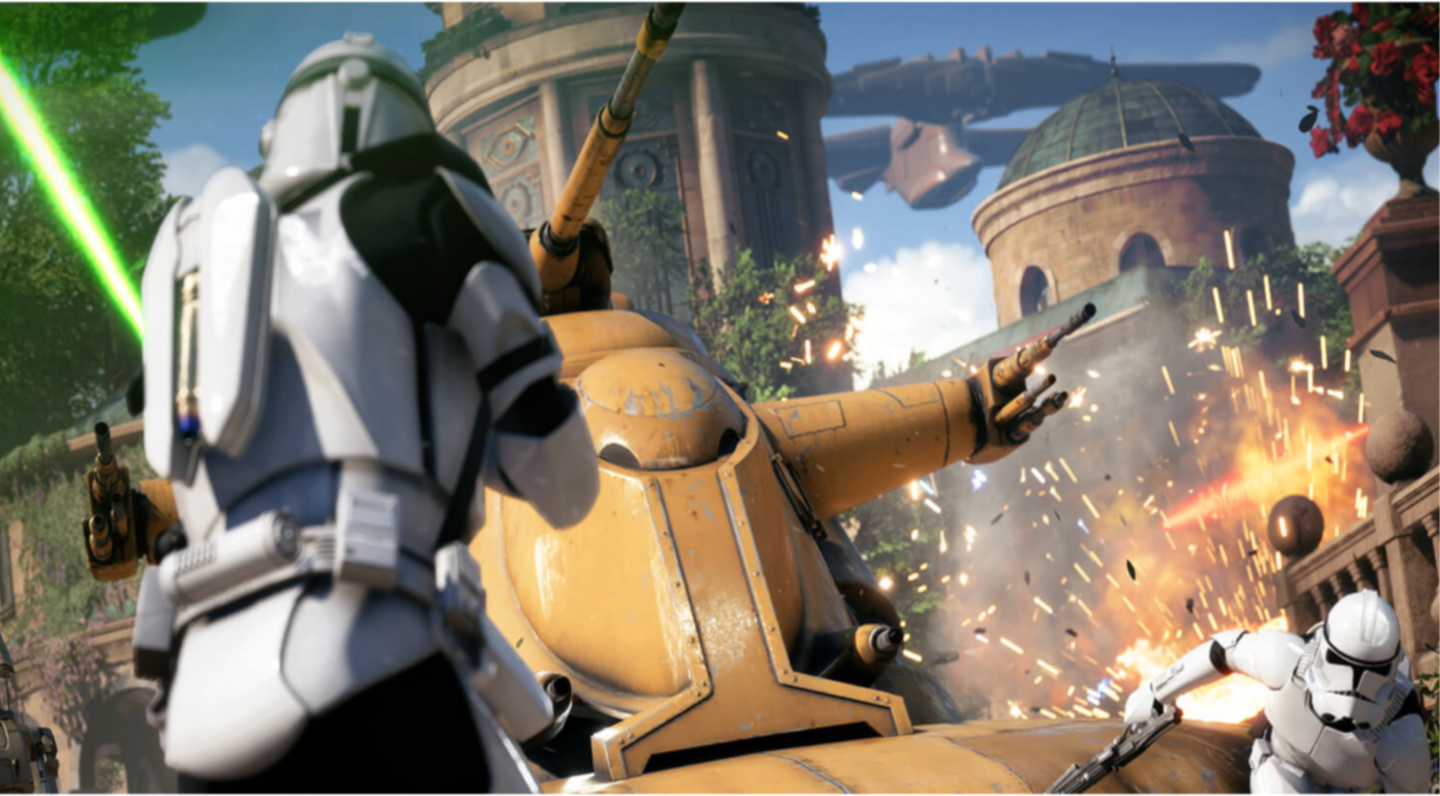
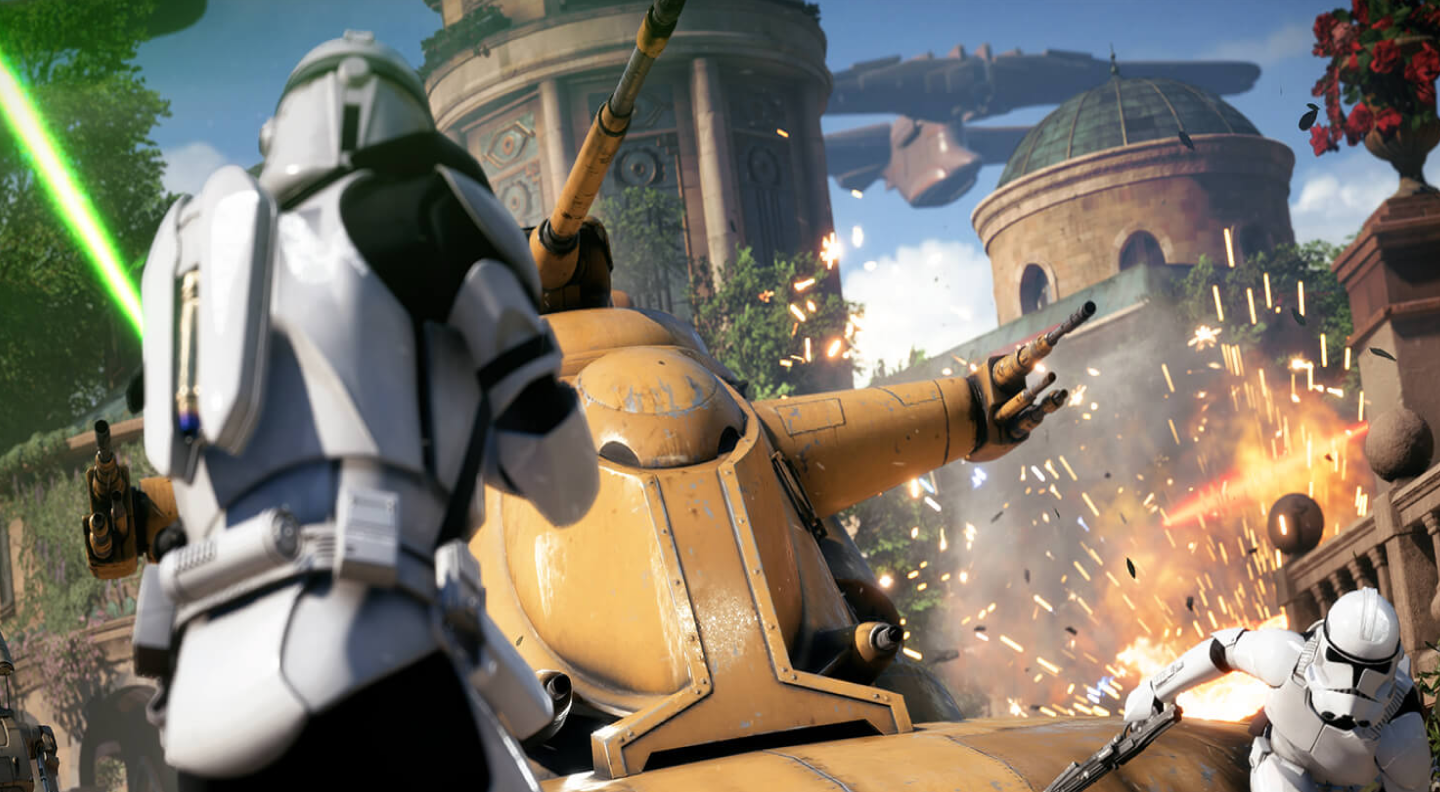
reorganizacion de barras separadoras y se agrega overlay de fondo + overlay para texto en 1er feature

diff --git a/Entrega2/css/style.css b/Entrega2/css/style.css
@@ -628,9 +628,7 @@ footer .links li{
     left: -10%;
     height: 100%;
     width: 111.80%;
-
     filter: blur(2.5px);
-
     object-fit: cover;
 }
 
@@ -638,11 +636,11 @@ footer .links li{
     position: absolute;
     /* top: 84.5%; */
     bottom: 2%;
-    left: -20px;
+    left: -20%;
     background: rgba(0, 0, 0, 0.85);
     filter: blur(20px);
     height: 110px;
-    width: 120%;
+    width: 150%;
     z-index: 2;
 }
 
@@ -650,11 +648,11 @@ footer .links li{
     position: absolute;
     /* top: 90%; */
     bottom: -2%;
-    left: -20px;
+    left: -20%;
     background: #000000;
     filter: blur(7.5px);
     height: 80px;
-    width: 120%;
+    width: 150%;
     z-index: 2;
 }
 
@@ -681,23 +679,38 @@ footer .links li{
 .game-features img {
     position: relative;
     width: 100vw;
+    filter: blur(1px);
+}
+
+.game-features .bg-overlay {
+    background: linear-gradient(0deg, rgba(0, 0, 0, 0.4), rgba(0, 0, 0, 0.4));
+}
+
+.game-features .fade.sup-fade {
+    top: -2%;
+}
+
+.game-features .barra-solida.sup-barra-solida {
+    top: -4%;
 }
 
 .game-features .fade {
-    bottom: -4%;
+    bottom: -2%;
 } 
 
 .game-features .barra-solida {
-    bottom: -6%;
+    bottom: -5%;
 }
 
-
-.fade.sup-fade {
-    top: 15%;
-}
-
-.barra-solida.sup-barra-solida {
-    top: 14%;
+.overlay-texto-f1 {
+    position: absolute;
+    left: 37.56%;
+    top: 10%;
+    width: 71.111%;
+    height: 100%;
+    background: rgba(0, 0, 0, 0.6);
+    filter: blur(40px);
+    z-index: 2;
 }
     
 

diff --git a/Entrega2/lanzamiento.html b/Entrega2/lanzamiento.html
@@ -50,15 +50,21 @@
         <section class="presentacion-juego">
             <section class="histora">
                 <h2 class="titulo-seccion">Historia</h2>
-            </section>
+                <div>
 
-            <section class="game-features">
+                </div>
+            </section>
+            <section>
                 <h2 class="titulo-seccion">Features</h2>
-                <div class="fade sup-fade"></div>
-                <div class="barra-solida sup-barra-solida"></div>
-                <img src="img/lanzamiento/Stormtroopersbg.png" alt="">
-                <div class="fade"></div>
-                <div class="barra-solida"></div>
+                <div class="game-features">
+                    <div class="fade sup-fade"></div>
+                    <div class="barra-solida sup-barra-solida"></div>
+                    <img src="img/lanzamiento/Stormtroopersbg.png" alt="">
+                    <div class="bg-overlay"></div>
+                    <div class="overlay-texto-f1"></div>
+                    <div class="fade"></div>
+                    <div class="barra-solida"></div>
+                </div>
             </section>
             <h2 class="titulo-seccion">Personajes</h2>
         </section>     
